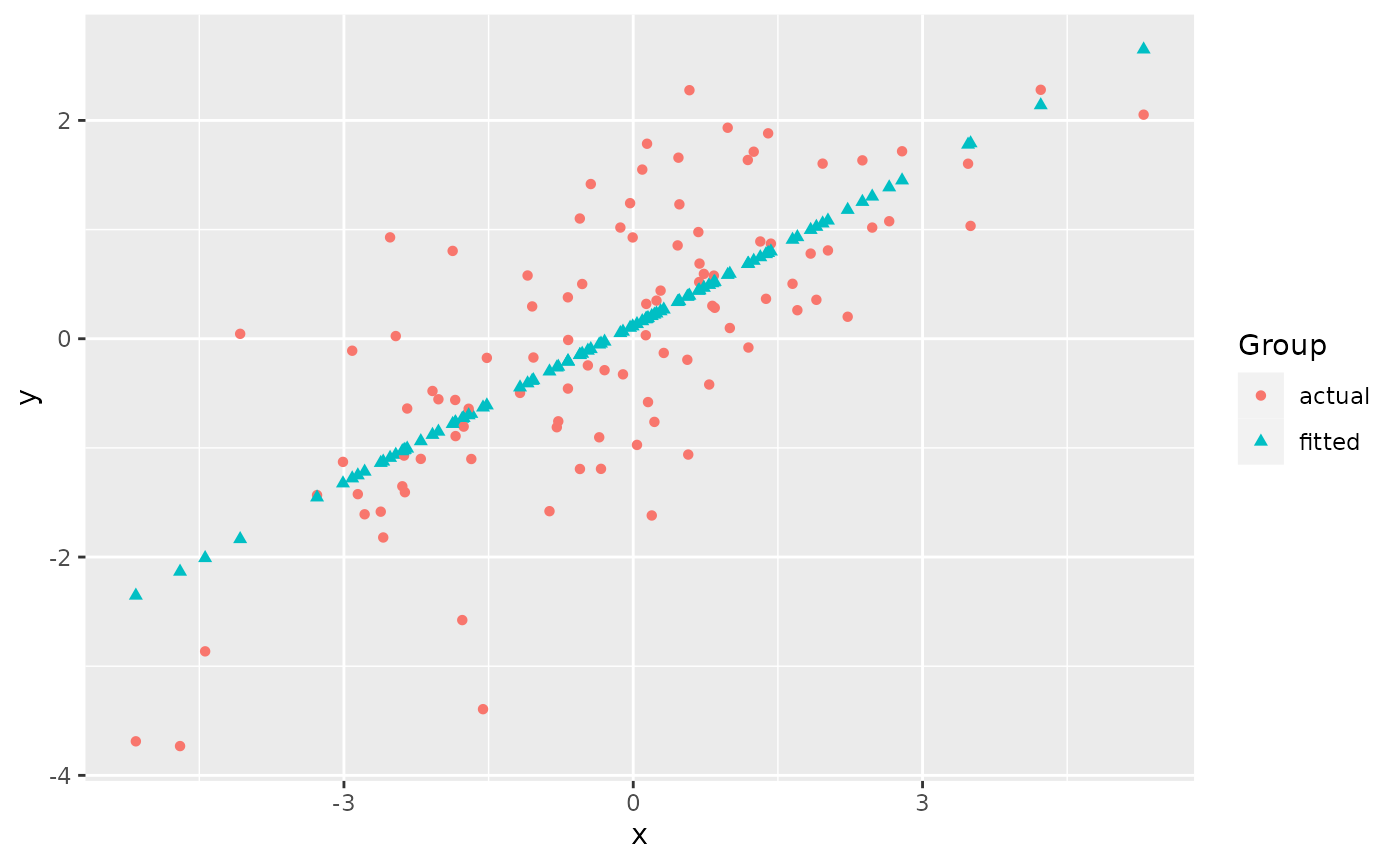
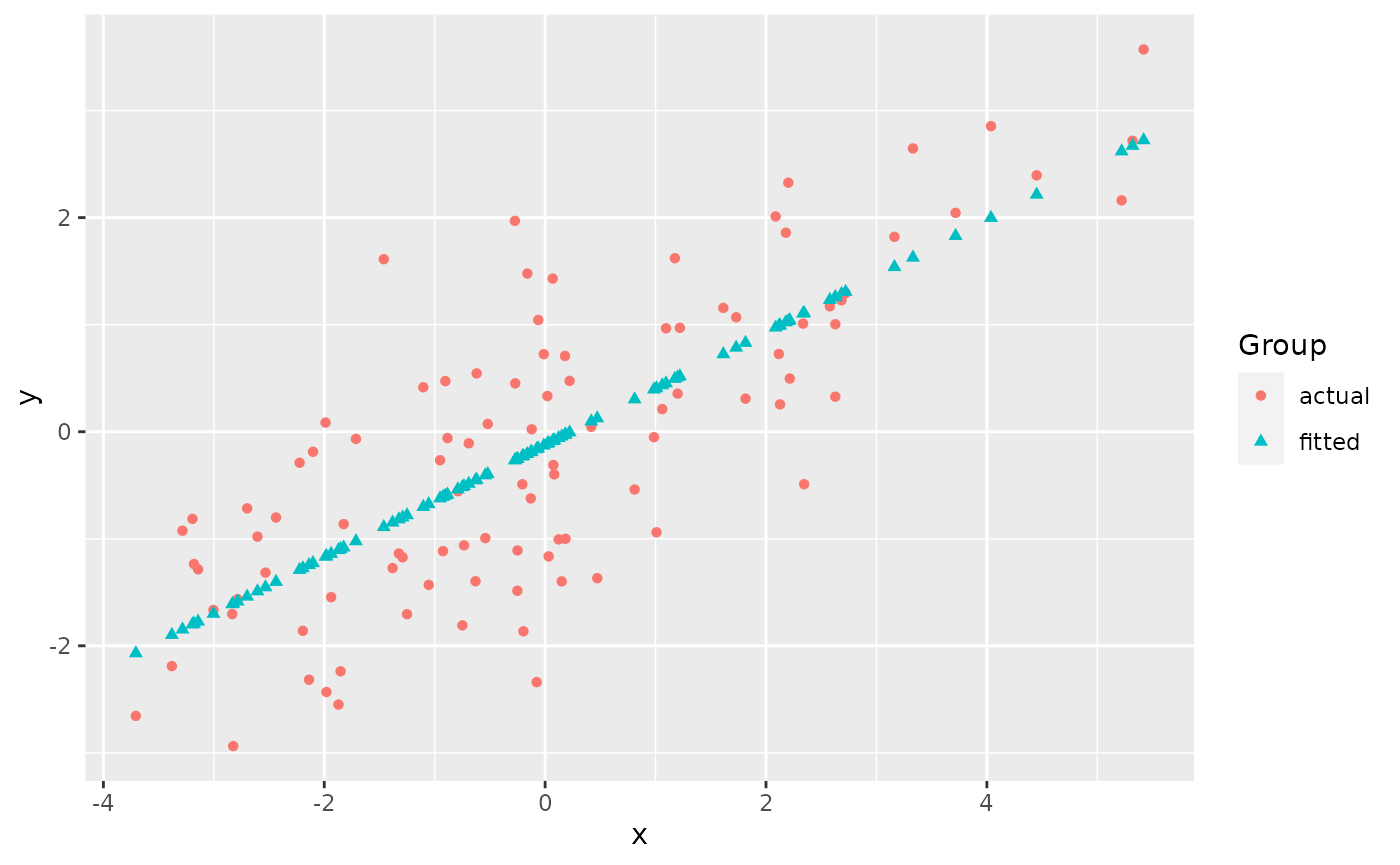
Built site for ggmatplot: 0.1.1@a705a0a

diff --git a/articles/ggmatplot.html b/articles/ggmatplot.html
@@ -103,7 +103,7 @@
 <span class="va">x</span> <span class="op">&lt;-</span> <span class="fu"><a href="https://rdrr.io/r/base/c.html" class="external-link">c</a></span><span class="op">(</span><span class="fu"><a href="https://rdrr.io/r/stats/Normal.html" class="external-link">rnorm</a></span><span class="op">(</span><span class="fl">100</span>, sd <span class="op">=</span> <span class="fl">2</span><span class="op">)</span><span class="op">)</span>
 
 <span class="fu"><a href="https://rdrr.io/r/utils/head.html" class="external-link">head</a></span><span class="op">(</span><span class="va">x</span><span class="op">)</span>
-<span class="co">#&gt; [1] -1.846111 -5.157804 -2.618236 -3.009980 -1.772968  0.153177</span>
+<span class="co">#&gt; [1]  1.0948220 -0.2062841 -1.4609687  0.1846782 -3.1793001 -2.8241195</span>
 
 <span class="co"># matrix z</span>
 <span class="va">y</span> <span class="op">&lt;-</span> <span class="va">x</span> <span class="op">*</span> <span class="fl">0.5</span> <span class="op">+</span> <span class="fu"><a href="https://rdrr.io/r/stats/Normal.html" class="external-link">rnorm</a></span><span class="op">(</span><span class="fl">100</span>, sd <span class="op">=</span> <span class="fl">1</span><span class="op">)</span>
@@ -112,13 +112,13 @@
            fitted <span class="op">=</span> <span class="va">fit.y</span><span class="op">)</span>
 
 <span class="fu"><a href="https://rdrr.io/r/utils/head.html" class="external-link">head</a></span><span class="op">(</span><span class="va">z</span><span class="op">)</span>
-<span class="co">#&gt;       actual     fitted</span>
-<span class="co">#&gt; 1 -0.5609911 -0.7676096</span>
-<span class="co">#&gt; 2 -3.6881605 -2.3531586</span>
-<span class="co">#&gt; 3 -1.5842712 -1.1372822</span>
-<span class="co">#&gt; 4 -1.1282083 -1.3248386</span>
-<span class="co">#&gt; 5 -2.5774649 -0.7325904</span>
-<span class="co">#&gt; 6 -0.5803992  0.1895955</span></code></pre></div>
+<span class="co">#&gt;       actual      fitted</span>
+<span class="co">#&gt; 1  0.9657605  0.45210511</span>
+<span class="co">#&gt; 2 -0.4907359 -0.23125175</span>
+<span class="co">#&gt; 3  1.6114766 -0.89022745</span>
+<span class="co">#&gt; 4 -1.0000322 -0.02591352</span>
+<span class="co">#&gt; 5 -1.2359083 -1.79271618</span>
+<span class="co">#&gt; 6 -2.9366151 -1.60617094</span></code></pre></div>
 <p><code>ggmatplot</code> plots vector <code>x</code> against each column of matrix <code>z</code> using the default <code>plot_type = "point"</code>. This will be represented on the resulting plot as two groups, identified using different shapes and colors.</p>
 <div class="sourceCode" id="cb2"><pre class="downlit sourceCode r">
 <code class="sourceCode R"><span class="kw"><a href="https://rdrr.io/r/base/library.html" class="external-link">library</a></span><span class="op">(</span><span class="va"><a href="https://github.com/xuan-liang/ggmatplot" class="external-link">ggmatplot</a></span><span class="op">)</span>
